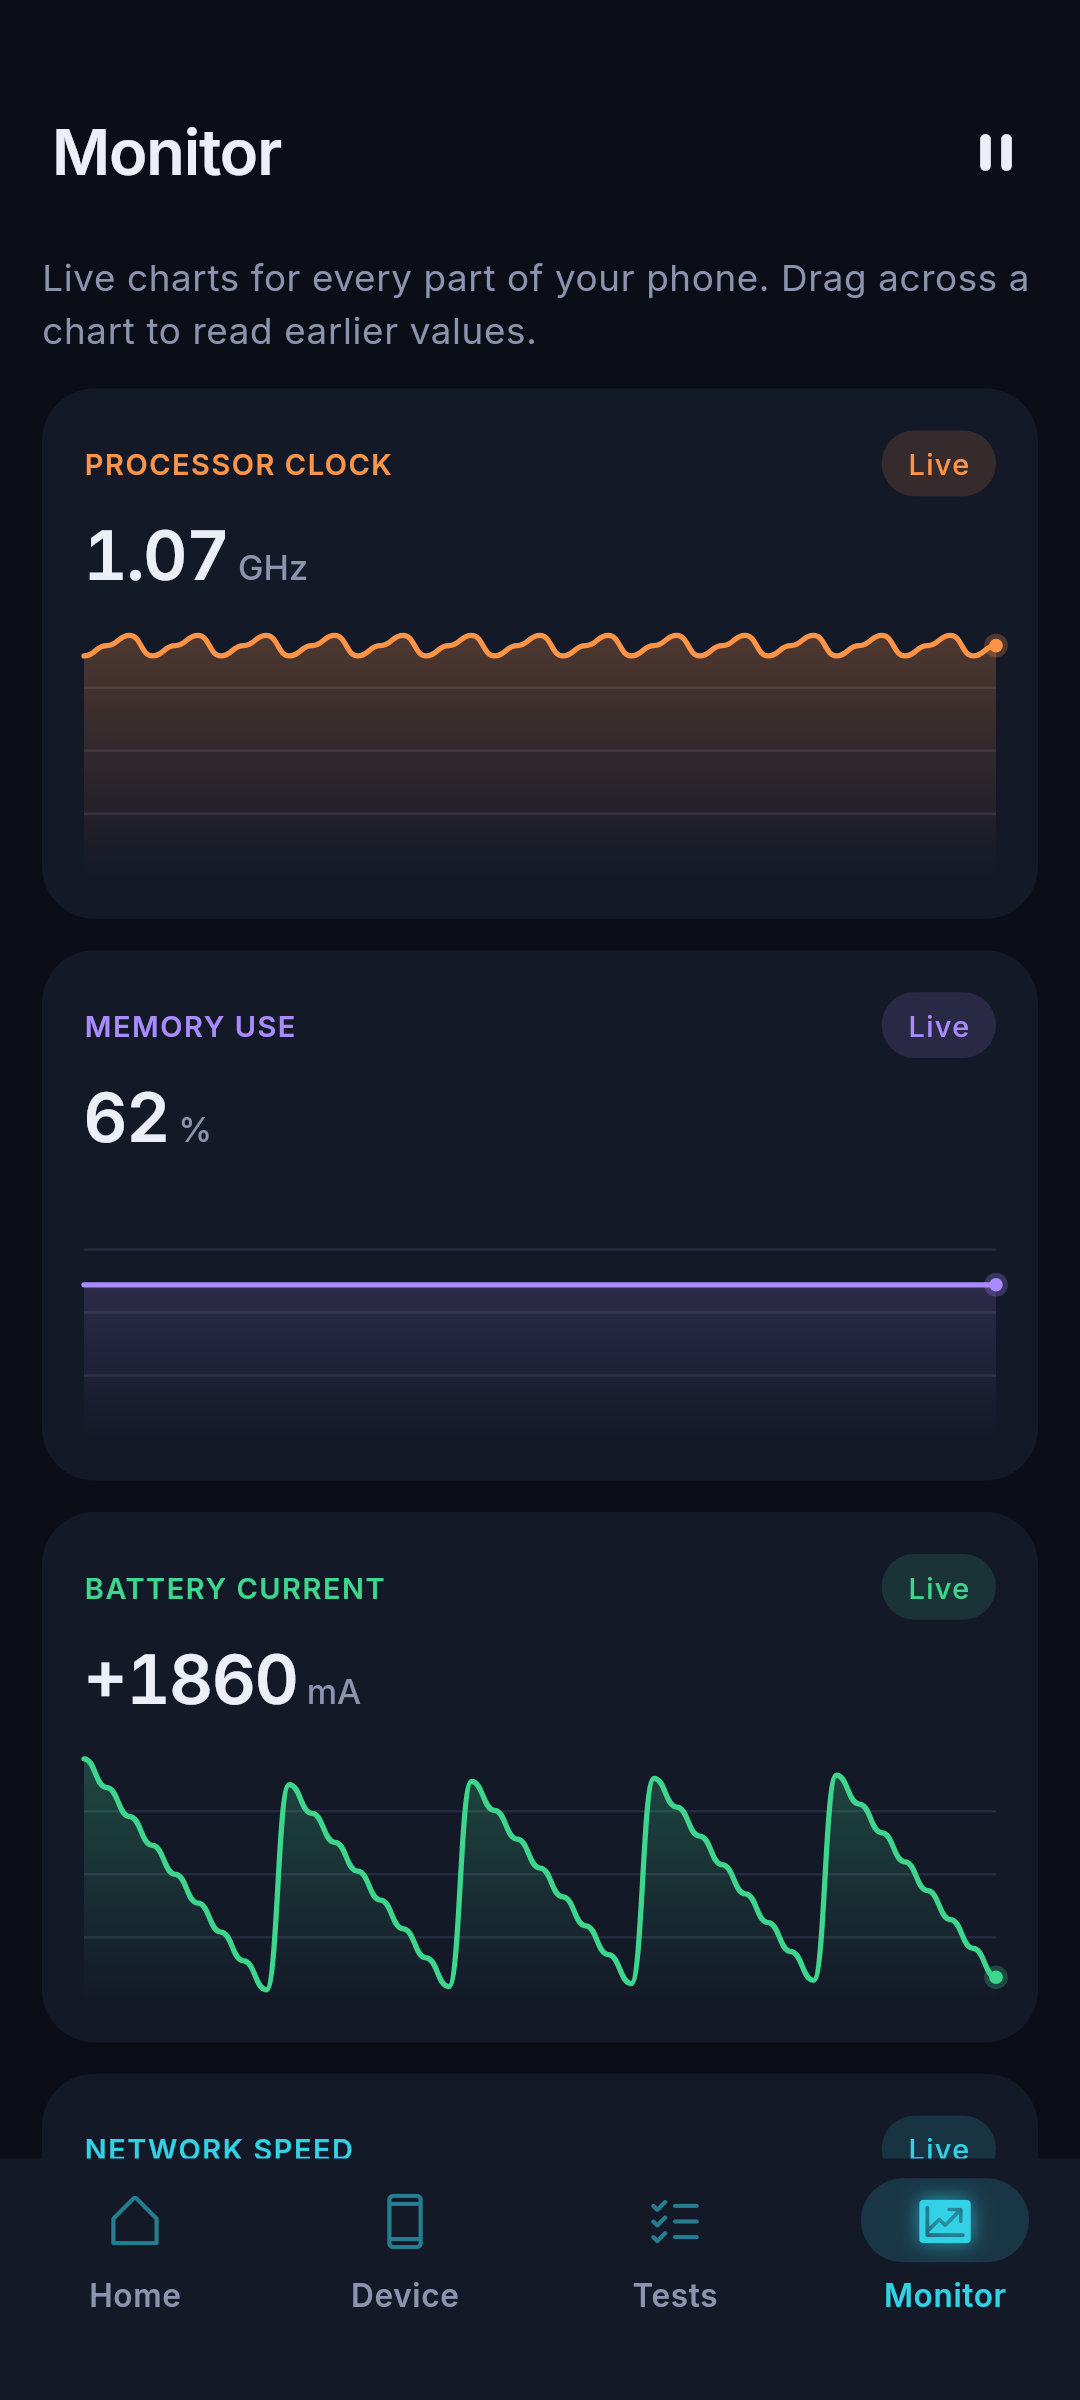
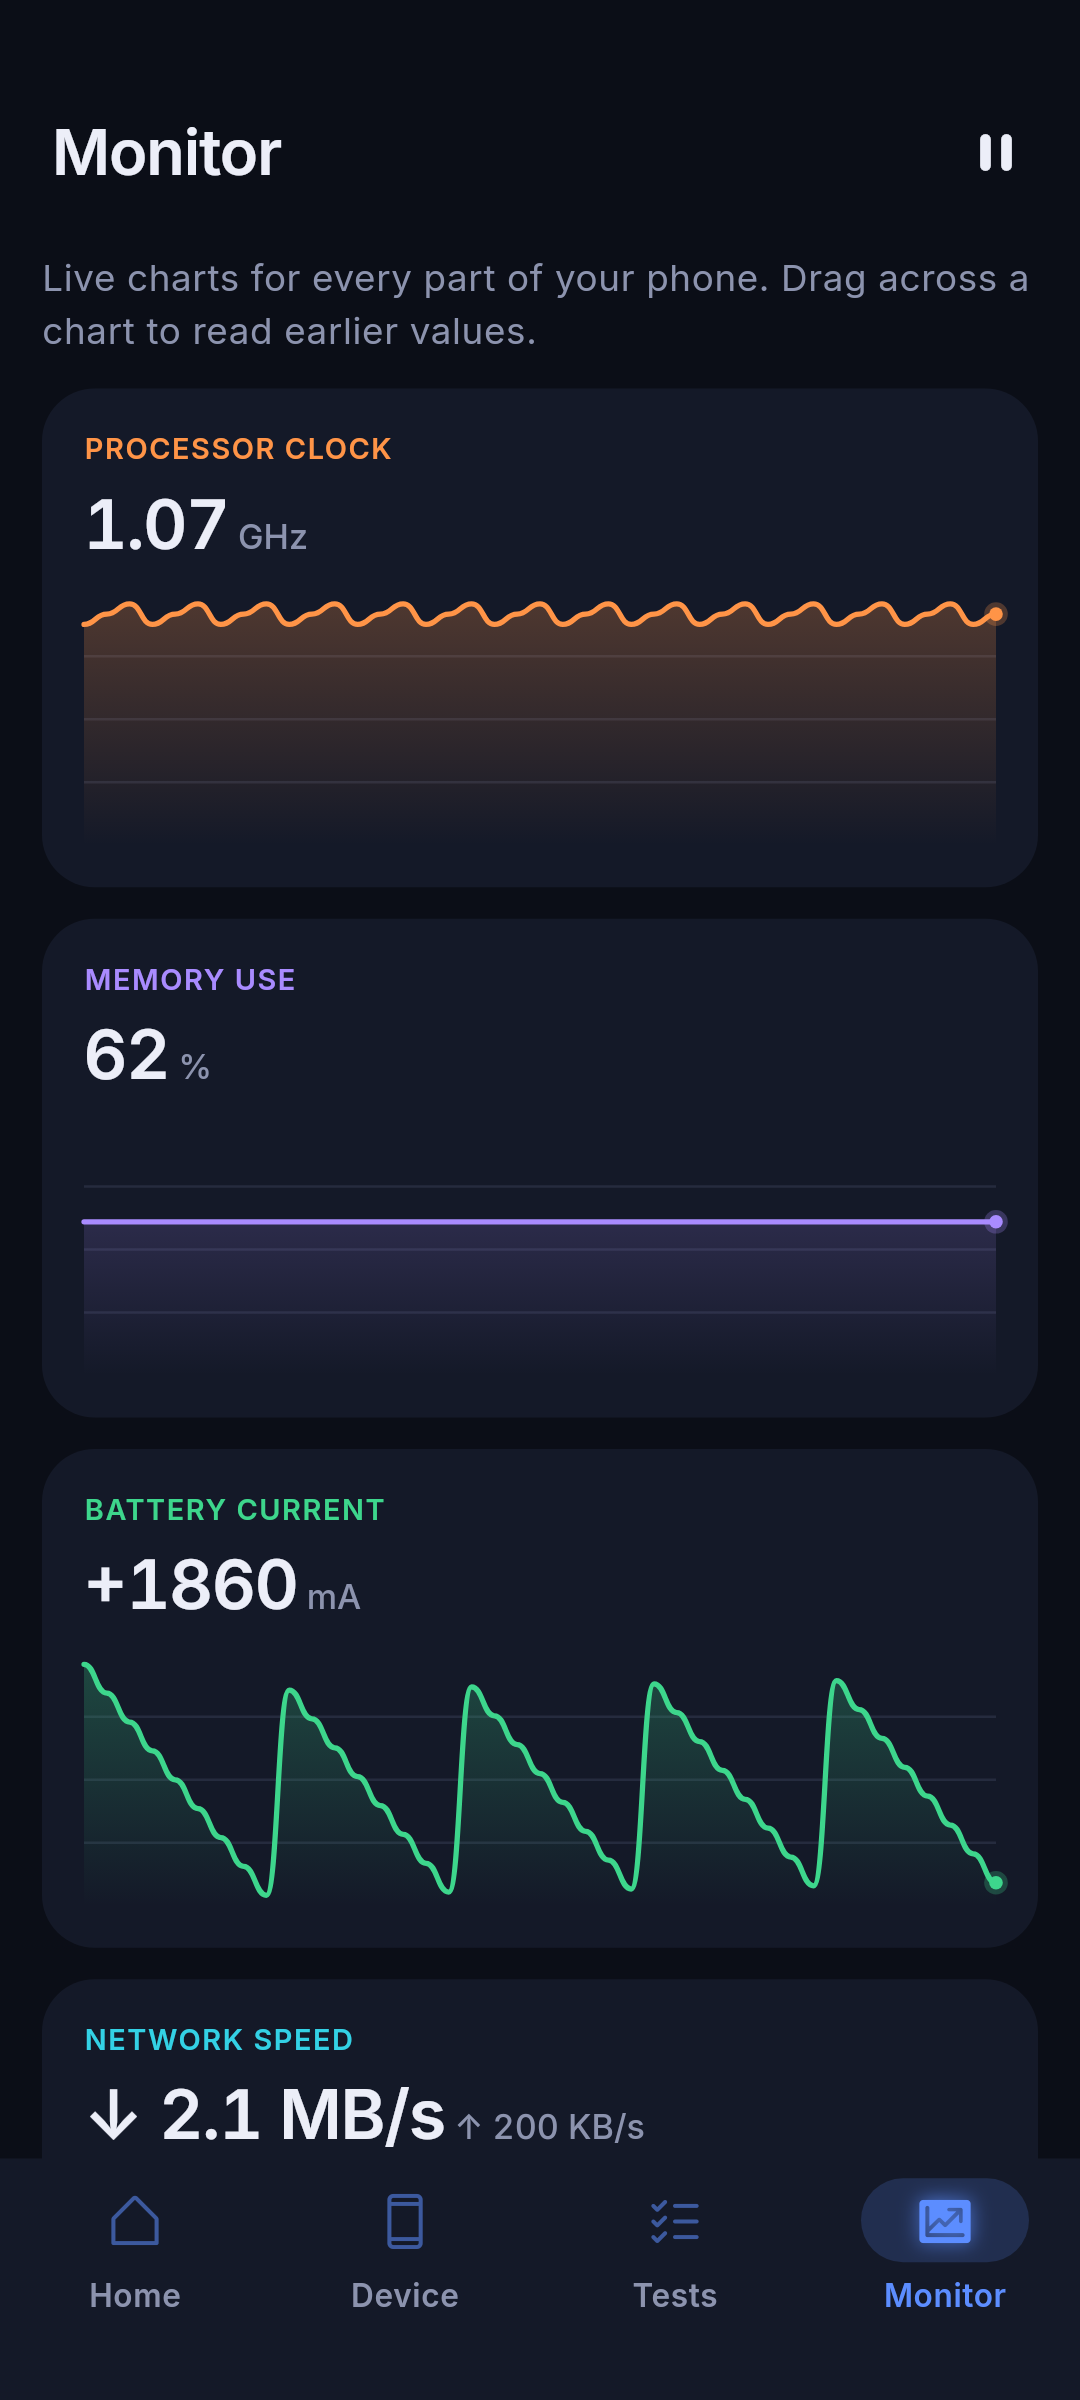
Remove Live labels; blue instead of cyan for dark navigation
- CPU, Battery, Network and Thermal screens and the Monitor charts no
  longer show a Live chip; only a Paused label appears when paused.
- Dark-theme bottom bar and side rail use a bright blue (#5C8DFF) from
  the accent family instead of the network cyan; the live status
  notification's download/upload arrows are blue too.

Claude-Session: https://claude.ai/code/session_01HzGgrf8mJzWqPVbmwGG37y

diff --git a/systemx/lib/core/theme/app_theme.dart b/systemx/lib/core/theme/app_theme.dart
@@ -10,6 +10,10 @@ abstract final class SxRadius {
   static const control = 14.0;
 }
 
+/// Navigation highlight in dark themes: a bright blue that sits between the
+/// accent's indigo and the storage blue, readable on the dark cards.
+const navBlue = Color(0xFF5C8DFF);
+
 ThemeData buildTheme(SxColors c, Brightness brightness) {
   final scheme = ColorScheme(
     brightness: brightness,
@@ -64,10 +68,10 @@ ThemeData buildTheme(SxColors c, Brightness brightness) {
     navigationBarTheme: NavigationBarThemeData(
       backgroundColor: c.card,
       surfaceTintColor: Colors.transparent,
-      // Dark themes: the neon cyan of the network graph, with a glow on
+      // Dark themes: a bright blue from the accent family, with a glow on
       // the selected tab.
       indicatorColor: isDark
-          ? c.network.withValues(alpha: 0.16)
+          ? navBlue.withValues(alpha: 0.18)
           : c.accent.withValues(alpha: 0.24),
       height: 68,
       labelTextStyle: WidgetStateProperty.resolveWith((s) {
@@ -76,7 +80,7 @@ ThemeData buildTheme(SxColors c, Brightness brightness) {
           SxFonts.body,
           12,
           FontWeight.w600,
-          color: on ? (isDark ? c.network : c.ink) : c.muted,
+          color: on ? (isDark ? navBlue : c.ink) : c.muted,
         );
       }),
       iconTheme: WidgetStateProperty.resolveWith((s) {
@@ -86,9 +90,9 @@ ThemeData buildTheme(SxColors c, Brightness brightness) {
         }
         return IconThemeData(
           size: 24,
-          color: on ? c.network : c.network.withValues(alpha: 0.55),
+          color: on ? navBlue : navBlue.withValues(alpha: 0.55),
           shadows: on
-              ? [Shadow(color: c.network.withValues(alpha: 0.85), blurRadius: 16)]
+              ? [Shadow(color: navBlue.withValues(alpha: 0.85), blurRadius: 16)]
               : null,
         );
       }),
@@ -97,21 +101,21 @@ ThemeData buildTheme(SxColors c, Brightness brightness) {
     navigationRailTheme: NavigationRailThemeData(
       backgroundColor: c.card,
       indicatorColor: isDark
-          ? c.network.withValues(alpha: 0.16)
+          ? navBlue.withValues(alpha: 0.18)
           : c.accent.withValues(alpha: 0.24),
       selectedIconTheme: isDark
           ? IconThemeData(
               size: 24,
-              color: c.network,
-              shadows: [Shadow(color: c.network.withValues(alpha: 0.85), blurRadius: 16)],
+              color: navBlue,
+              shadows: [Shadow(color: navBlue.withValues(alpha: 0.85), blurRadius: 16)],
             )
           : IconThemeData(size: 24, color: c.accent),
       unselectedIconTheme: IconThemeData(
         size: 24,
-        color: isDark ? c.network.withValues(alpha: 0.55) : c.muted,
+        color: isDark ? navBlue.withValues(alpha: 0.55) : c.muted,
       ),
       selectedLabelTextStyle:
-          sxStyle(SxFonts.body, 12, FontWeight.w600, color: isDark ? c.network : c.ink),
+          sxStyle(SxFonts.body, 12, FontWeight.w600, color: isDark ? navBlue : c.ink),
       unselectedLabelTextStyle: sxStyle(SxFonts.body, 12, FontWeight.w600, color: c.muted),
     ),
     filledButtonTheme: FilledButtonThemeData(

diff --git a/systemx/lib/features/live/live_screens.dart b/systemx/lib/features/live/live_screens.dart
@@ -64,13 +64,12 @@ class LiveDetailScreen extends ConsumerWidget {
           onPressed: () =>
               ref.read(liveProvider.notifier).setPaused(!live.paused),
         ),
-        Padding(
-          padding: const EdgeInsets.only(right: 8),
-          child: Center(
-            child: StatusChip(live.paused ? l.paused : l.live,
-                color: live.paused ? sx.muted : color),
+        // Only a paused state is labelled; updating is the normal case.
+        if (live.paused)
+          Padding(
+            padding: const EdgeInsets.only(right: 8),
+            child: Center(child: StatusChip(l.paused, color: sx.muted)),
           ),
-        ),
       ],
       slivers: [
         if (live.latest == null)

diff --git a/systemx/lib/features/monitor/monitor_screen.dart b/systemx/lib/features/monitor/monitor_screen.dart
@@ -76,8 +76,7 @@ class MonitorScreen extends ConsumerWidget {
                 children: [
                   Row(children: [
                     Expanded(child: Eyebrow(c.title, color: c.series.first.color)),
-                    StatusChip(live.paused ? l.paused : l.live,
-                        color: live.paused ? sx.muted : c.series.first.color),
+                    if (live.paused) StatusChip(l.paused, color: sx.muted),
                   ]),
                   const SizedBox(height: 8),
                   Text.rich(TextSpan(children: [

diff --git a/systemx/test/live_screens_test.dart b/systemx/test/live_screens_test.dart
@@ -62,7 +62,7 @@ void main() {
     for (final m in LiveMetric.values) {
       await go(tester, Routes.live(m));
       expect(tester.takeException(), isNull, reason: m.name);
-      expect(find.text('Live'), findsOneWidget, reason: m.name);
+      expect(find.text('Live'), findsNothing, reason: m.name);
     }
 
     await go(tester, Routes.live(LiveMetric.battery));
